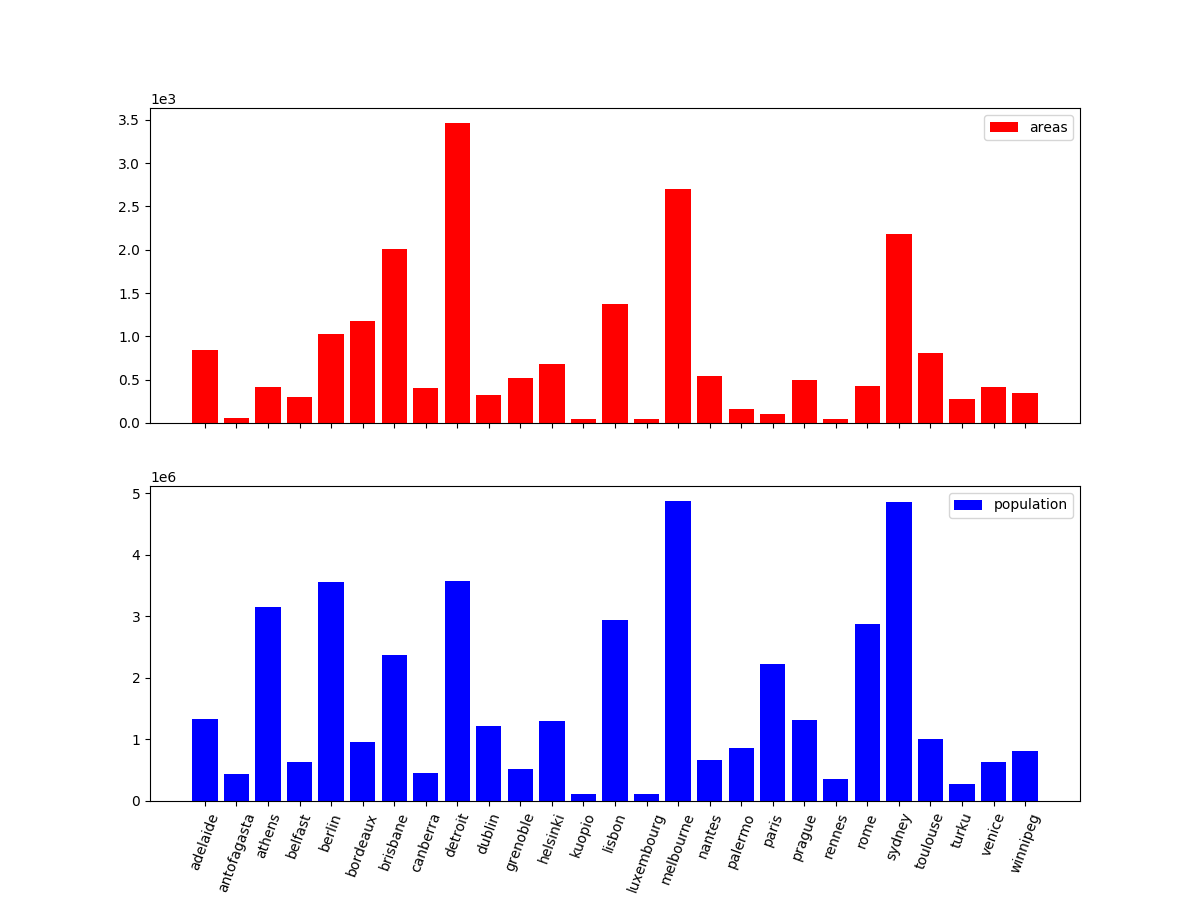
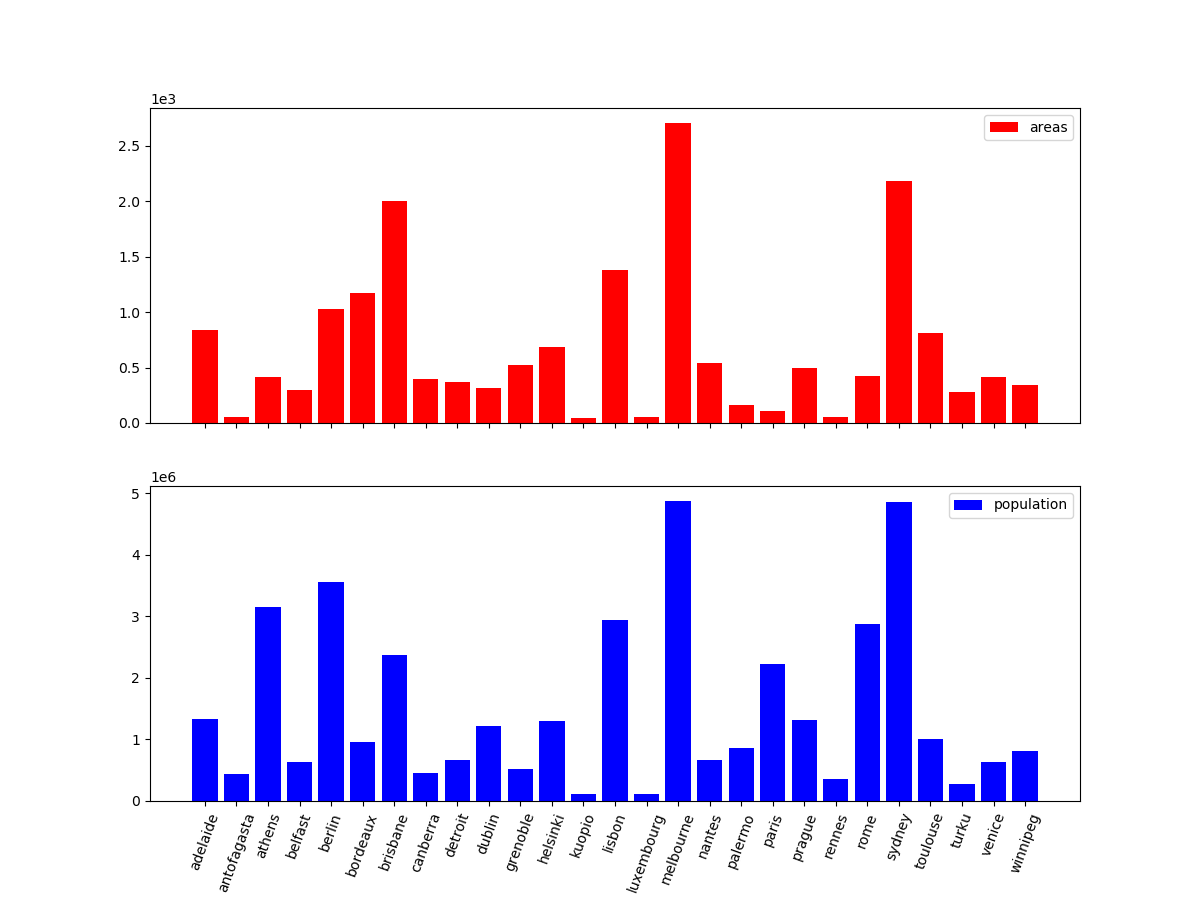
updated some plots with new area and population of detroit

diff --git a/plot_centrality_measures.py b/plot_centrality_measures.py
@@ -37,25 +37,25 @@ if __name__ == '__main__':
         for k, v in centrality_measures.items():
             centrality_dict[k].append(v)
 
-        ''' Scatter plots: betweenness vs closeness and betweenness vs eigenvector'''
-        df_centralities = pd.DataFrame.from_dict(centrality_measures)
-        fig, ax = nf.plot_two_columns_dataframe(df=df_centralities, col_x='betweenness', col_y1='closeness')
-        ax.set_title(city)
-        fig.show()
-        dir_scatter = './results/' + city + '/centrality_measures/scatter/'
-        if not os.path.exists(dir_scatter):
-            os.makedirs(dir_scatter)
-        fig_name = dir_scatter + 'betweenness_vs_closeness.png'
-        fig.savefig(fig_name)
-
-        fig, ax = nf.plot_two_columns_dataframe(df=df_centralities, col_x='betweenness', col_y1='eigenvector')
-        ax.set_title(city)
-        fig.show()
-        fig_name = dir_scatter + 'betweenness_vs_eigenvector.png'
-        fig.savefig(fig_name)
+        # ''' Scatter plots: betweenness vs closeness and betweenness vs eigenvector'''
+        # df_centralities = pd.DataFrame.from_dict(centrality_measures)
+        # fig, ax = nf.plot_two_columns_dataframe(df=df_centralities, col_x='betweenness', col_y1='closeness')
+        # ax.set_title(city)
+        # fig.show()
+        # dir_scatter = './results/' + city + '/centrality_measures/scatter/'
+        # if not os.path.exists(dir_scatter):
+        #     os.makedirs(dir_scatter)
+        # fig_name = dir_scatter + 'betweenness_vs_closeness.png'
+        # fig.savefig(fig_name)
+        #
+        # fig, ax = nf.plot_two_columns_dataframe(df=df_centralities, col_x='betweenness', col_y1='eigenvector')
+        # ax.set_title(city)
+        # fig.show()
+        # fig_name = dir_scatter + 'betweenness_vs_eigenvector.png'
+        # fig.savefig(fig_name)
 
         ''' Plot ccdf of all measures of centrality considered for current city '''
-        fig = nf.plot_ccdf(datavecs=list(centrality_measures.values()), labels=list(centrality_measures.keys()),
+        fig, _ = nf.plot_ccdf(datavecs=list(centrality_measures.values()), labels=list(centrality_measures.keys()),
                            xlabel='measure', ylabel='P(measure)')
         # fig.show()
         dir_name = './results/'+city+'/centrality_measures/'
@@ -102,29 +102,29 @@ if __name__ == '__main__':
             fig2.savefig(fig_name)
             plt.close('all')
 
-    ''' Create table for betweenness analysis '''
-
-    pd.options.display.float_format = lambda x: '{:,.3f}'.format(x)
-    pd.set_option('colheader_justify', 'center')
-    html_string = nf.get_html_string()
-
-    df_bc_k = pd.DataFrame.from_dict(degree_betweenness).describe()
-    df = pd.DataFrame.from_dict(nf.load_json(centralities_path)).T
-    df.fillna(0.0)
-
-    df_bc_cols = ['City', 'max(g(i))', '<g(i)>', 'n', 'max(g(k))', '<g(k)>', 'y']  # \u03B7
-    df_bc = pd.DataFrame(columns=df_bc_cols)
-    df_bc['City'] = cities
-    df_bc['max(g(i))'] = [np.max(x) for x in df.betweenness]
-    df_bc['<g(i)>'] = [np.mean(x) for x in df.betweenness]
-    df_bc['lambda'] = lambdas
-    df_bc['max(g(k))'] = np.array(df_bc_k.loc['max'])
-    df_bc['<g(k)>'] = np.array(df_bc_k.loc['mean'])
-    df_bc['eta'] = etas
-
-    print(df_bc)
-
-    df_bc.to_csv('./results/all/tables/betweenness.csv')
+    # ''' Create table for betweenness analysis '''
+    #
+    # pd.options.display.float_format = lambda x: '{:,.3f}'.format(x)
+    # pd.set_option('colheader_justify', 'center')
+    # html_string = nf.get_html_string()
+    #
+    # df_bc_k = pd.DataFrame.from_dict(degree_betweenness).describe()
+    # df = pd.DataFrame.from_dict(nf.load_json(centralities_path)).T
+    # df.fillna(0.0)
+    #
+    # df_bc_cols = ['City', 'max(g(i))', '<g(i)>', 'n', 'max(g(k))', '<g(k)>', 'y']  # \u03B7
+    # df_bc = pd.DataFrame(columns=df_bc_cols)
+    # df_bc['City'] = cities
+    # df_bc['max(g(i))'] = [np.max(x) for x in df.betweenness]
+    # df_bc['<g(i)>'] = [np.mean(x) for x in df.betweenness]
+    # df_bc['lambda'] = lambdas
+    # df_bc['max(g(k))'] = np.array(df_bc_k.loc['max'])
+    # df_bc['<g(k)>'] = np.array(df_bc_k.loc['mean'])
+    # df_bc['eta'] = etas
+    #
+    # print(df_bc)
+    #
+    # df_bc.to_csv('./results/all/tables/betweenness.csv')
 
     # with open('./results/all/tables/betweenness_html.html', 'w') as f:
     #     f.write(html_string.format(table=df_bc.to_html(classes='mystyle')))

diff --git a/plot_basic_measures.py b/plot_basic_measures.py
@@ -37,19 +37,21 @@ if __name__ == '__main__':
     df_area_population = pd.DataFrame.from_dict(area_population_dict)
     df = pd.concat([df_measures, df_area_population]).T
     x_values = [df['#nodes'], df['#edges'], df['density'], df['diameter'], df['avg_cc']]
-    x_labels = list(df.columns.values)[:5]
+    x_labels = ['N', 'E', 'density', 'd', '<c>']
     areas = df['area']
     markers = ['.', 'x', '+', 'o', '^']
     for x_val, x_label, i in zip(x_values, x_labels, range(len(x_values))):
-        fig = pf.create_scatter(x_values=x_val, y_values=areas, x_label=x_label, y_label='area',
+        fig = pf.create_scatter(x_values=x_val, y_values=areas, x_label=x_label, y_label='A',
                                 labels=df.index.values, colors=colors_cities)
+        if x_label == '<c>':
+            x_label = 'avg_cc'
         fig_name = prefix_png+'basic_measures/continents_division/'+x_label+'_continents.png'
         fig.savefig(fig_name, bbox_inches='tight')
     plt.close('all')
 
     ''' Plot x: #nodes, y: #edges and size of scatter points proportional to area of the city'''
-    fig = pf.create_scatter(x_values=df['#nodes'], y_values=df['#edges'], x_label='number_of_nodes',
-                            y_label='number_of_edges', labels=cities, colors=colors_cities, areas=df['area'])
+    fig = pf.create_scatter(x_values=df['#nodes'], y_values=df['#edges'], x_label='N',
+                            y_label='E', labels=cities, colors=colors_cities, areas=df['area'])
     fig_name = prefix_png+'basic_measures/continents_division/nodes_vs_edges_continents_alpha_legends.png'
     fig.savefig(fig_name, bbox_inches='tight')
     plt.close('all')
@@ -62,7 +64,7 @@ if __name__ == '__main__':
     plt.plot(x_values, y_values, marker='o')
     plt.xticks(rotation=70)
     plt.subplots_adjust(bottom=0.25)
-    plt.ylabel('#nodes/area')
+    plt.ylabel('N/A')
     fig_name = prefix_png+'basic_measures/density_of_nodes.png'
     plt.savefig(fig_name, bbox_inches='tight')
 
@@ -72,12 +74,12 @@ if __name__ == '__main__':
     labels = ['area', '#nodes', '#edges']
     xlabel = 'measure'
     ylabel = 'P(measure)'
-    fig = nf.plot_ccdf(datavecs, labels, xlabel, ylabel)
+    fig, _ = nf.plot_ccdf(datavecs, labels, xlabel, ylabel)
     # fig.show()
     fig_name = prefix_png+'basic_measures/ccdf_measures.png'
     fig.savefig(fig_name)
 
-    ''' Plot degree distributions fo all cities '''
+    ''' Plot degree distributions for all cities '''
     degrees = nf.load_json(degrees_file)
     values = degrees.values()
 
@@ -100,6 +102,7 @@ if __name__ == '__main__':
     fig = nf.plot_multiple_distributions_with_colorbar_log_log_and_fitted_line(datavecs=degrees.values(),
                                                                                labels=cities, xlabel='k',
                                                                                ylabel='P(k)', c=areas, max_x=28)
+    fig.show()
     fig_name = 'results/all/plots/basic_measures/degree_distribution.png'
     fig.savefig(fig_name, bbox_inches='tight')
 
@@ -124,7 +127,7 @@ if __name__ == '__main__':
     gammas = []
     for city, list_degrees in degrees.items():
         plt.close('all')
-        fig, m = nf.plot_distribution_log_log(datavec=list_degrees, city=city, xlabel='k', ylabel='P(k)',
+        fig, m = nf.plot_distribution_log_log(datavec=list_degrees, label=city, xlabel='k', ylabel='P(k)',
                                               max_x=int(df_degrees[city][1]))
         fig_name = 'results/'+city+'/degree_distribution.png'
         fig.savefig(fig_name, bbox_inches='tight')
@@ -132,6 +135,6 @@ if __name__ == '__main__':
 
     df_degrees = df_degrees.T
     df_degrees['\u03B3'] = gammas
-    nf.dump_json('./results/all/json/gammas.txt', gammas)
+    # nf.dump_json('./results/all/json/gammas.txt', gammas)
     # print(df_degrees)
     # print(df_degrees.describe())

diff --git a/generic_plot_functions.py b/generic_plot_functions.py
@@ -116,10 +116,6 @@ def create_scatter(x_values, y_values, x_label, y_label, labels, colors, areas=N
     ax.set_ylabel(y_label)
     ax.grid(alpha=0.2)
     plt.subplots_adjust(top=0.75)
-    # legend = ax.legend(loc='lower left', bbox_to_anchor=(-0.05, 1.01), ncol=5,
-    #                    borderaxespad=0.1, frameon=False)
-    # for handle in legend.legendHandles:
-    #     handle.set_sizes([15.0])
 
     leg = Legend(ax, dots[:3], ['Oceania', 'America', 'Europe'], loc='best', frameon=False)
     for handle in leg.legendHandles:

diff --git a/plot_area_population.py b/plot_area_population.py
@@ -21,7 +21,7 @@ if __name__ == '__main__':
     labels = ['areas', 'population']
 
     fig1 = pf.plot_bars_with_subplots(2, 1, cities, y_values, colors, labels)
-    fig_name = 'area_population_plot.png'
+    fig_name = './results/all/plots/basic_measures/area_population_plot.png'
     plt.savefig(fig_name)
     plt.close()
 
